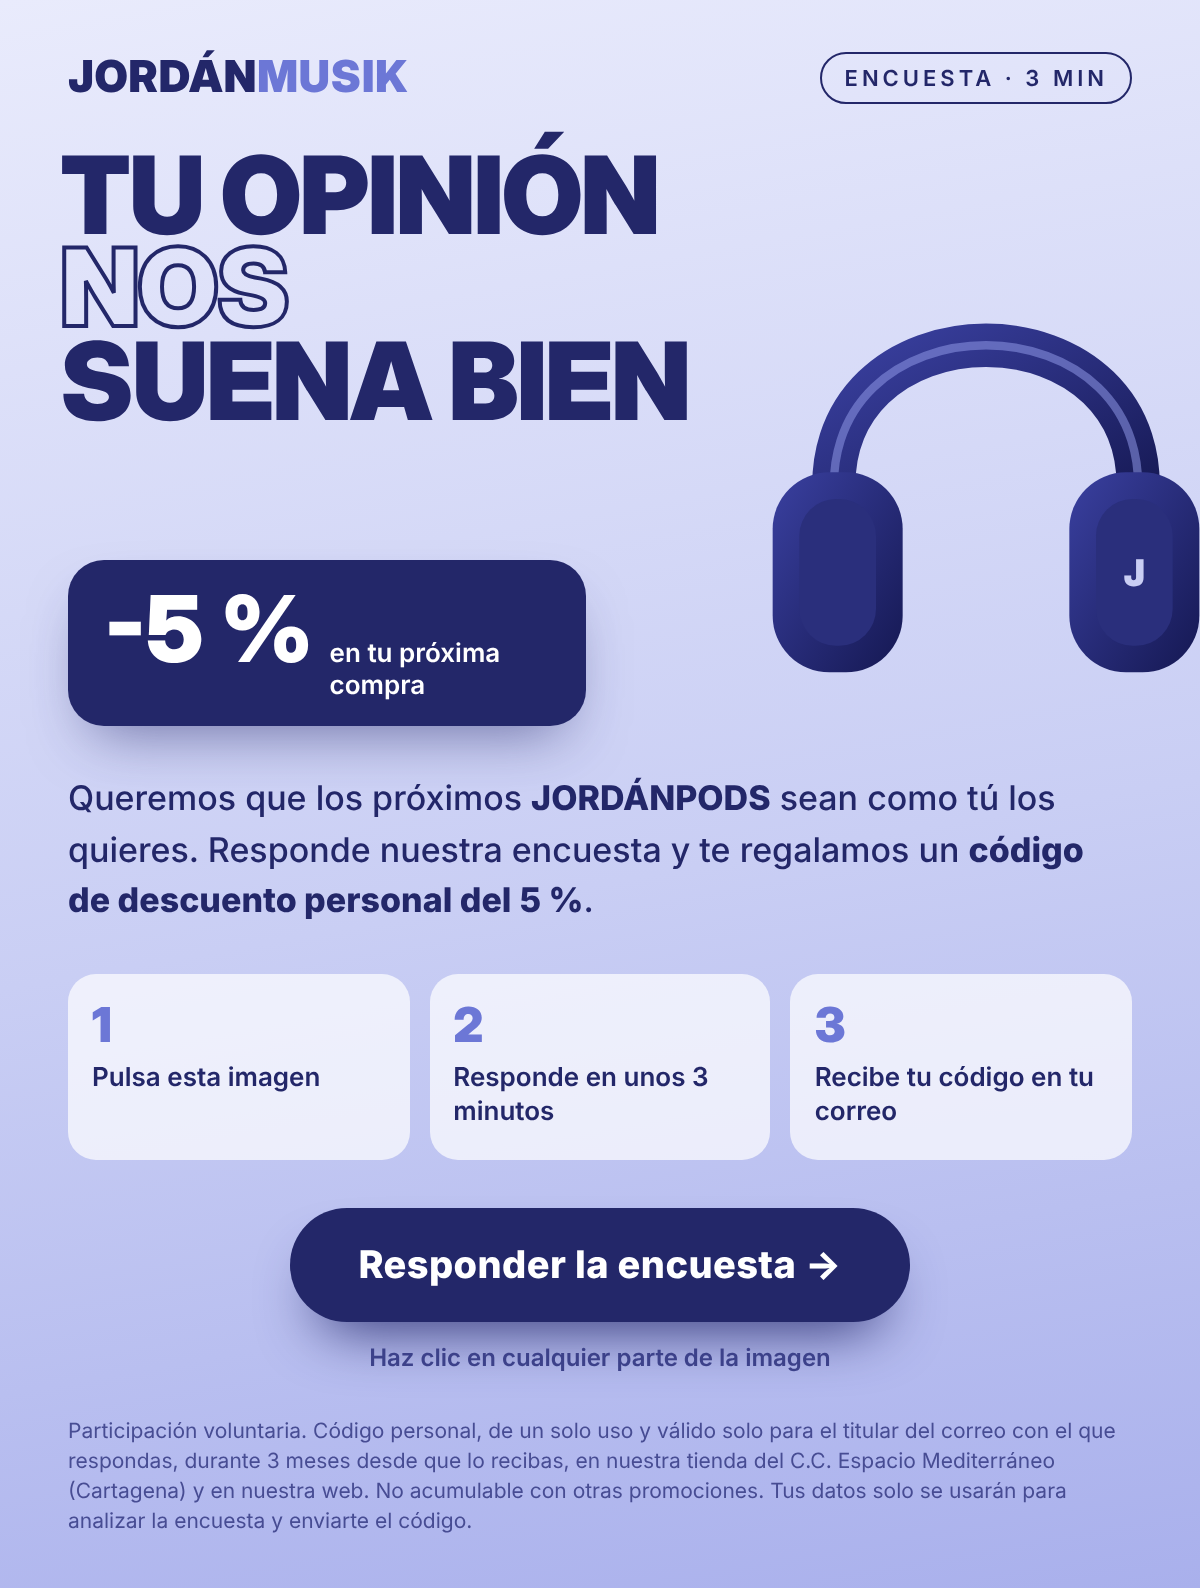
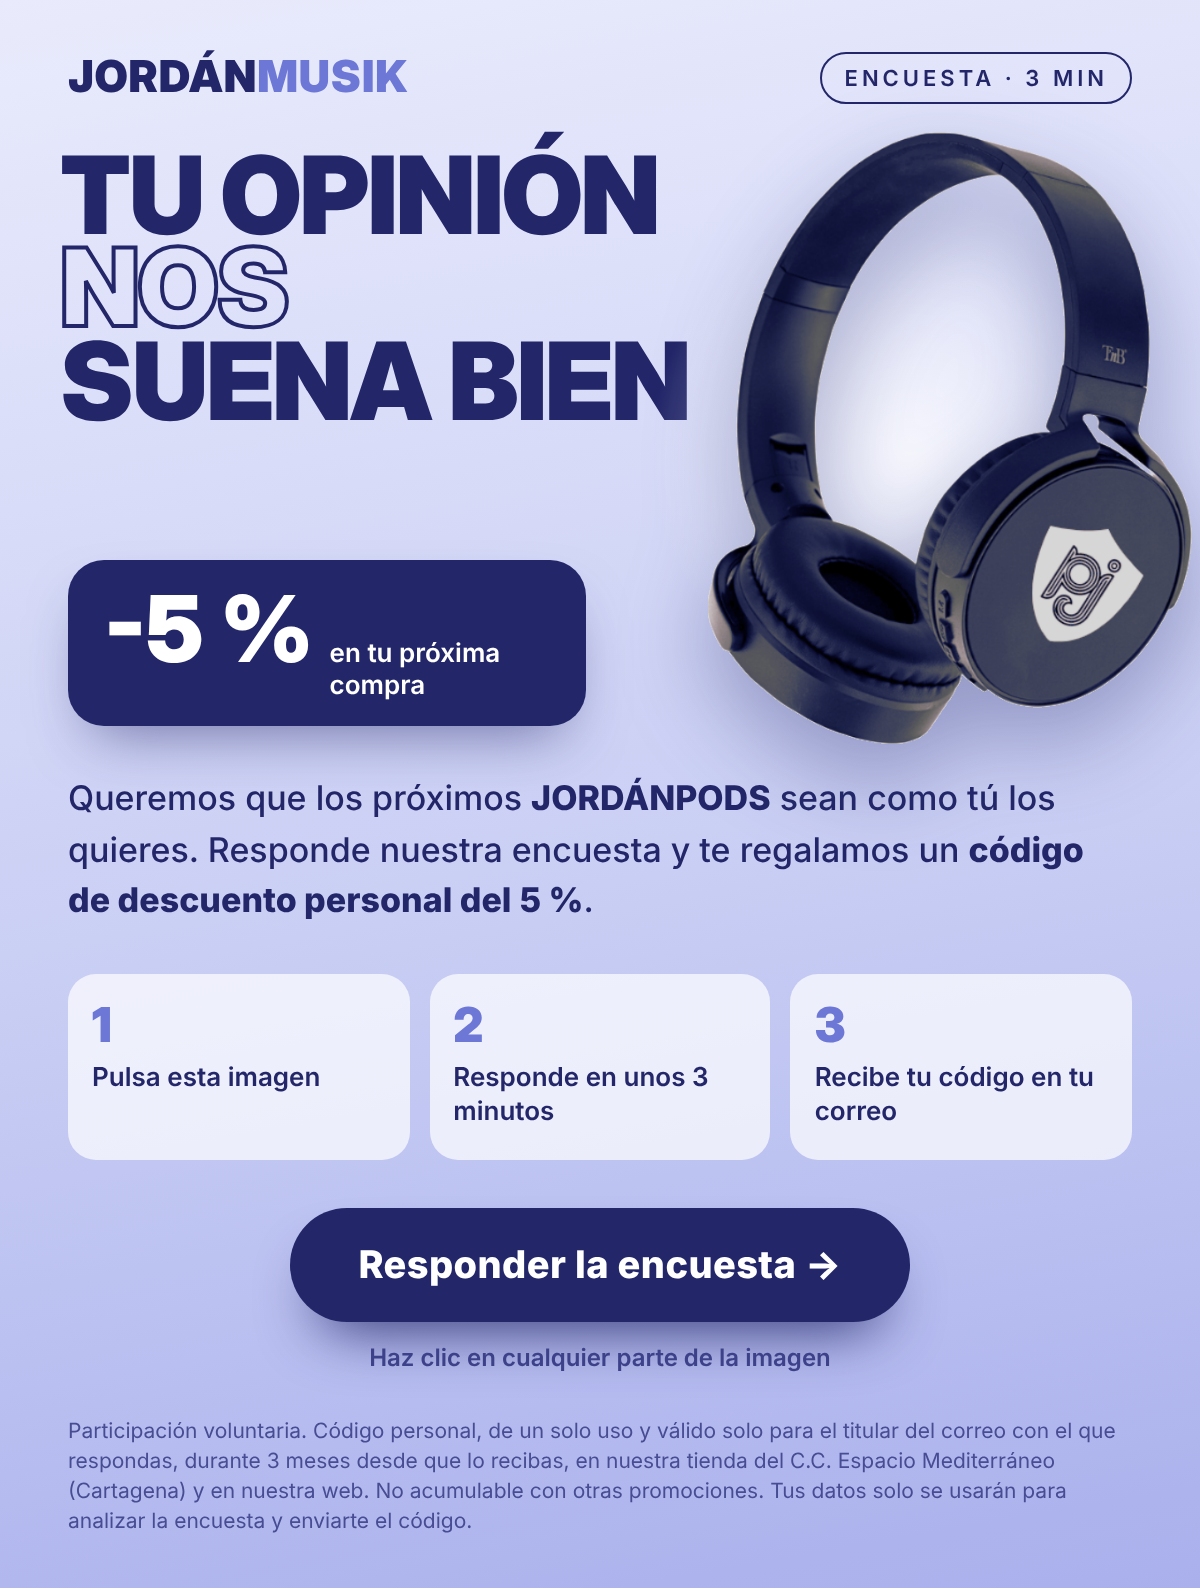
Mailing: sustituye la ilustración por la foto real de los JORDÁNPODS
Claude-Session: https://claude.ai/code/session_01QoRa6H288JEqWWG4NNqZ48

Changed region(s): [[0.5858, 0.0616, 1.0, 0.4931]]

diff --git a/mailing/diseno_mailing.html b/mailing/diseno_mailing.html
@@ -14,7 +14,8 @@ body{width:600px;font-family:"Inter",sans-serif;background:#fff}
 .badge{position:absolute;left:34px;top:228px;background:#232769;color:#fff;border-radius:18px;padding:12px 18px;display:flex;align-items:baseline;gap:8px;box-shadow:0 14px 30px -12px #23276999}
 .badge b{font-family:"Inter Display";font-weight:900;font-size:46px;line-height:1}
 .badge small{font-size:13px;font-weight:600;line-height:1.2;max-width:110px}
-svg.hp{position:absolute;right:-18px;top:34px;width:250px;height:267px}
+img.hp{position:absolute;right:4px;top:14px;height:306px;width:auto;filter:drop-shadow(0 18px 22px rgba(35,39,105,.35))}
+.glow{position:absolute;right:10px;top:40px;width:270px;height:270px;border-radius:50%;background:radial-gradient(circle,#ffffffcc 0%,#ffffff00 68%)}
 .body{padding:6px 34px 0}
 .lead{font-size:17px;line-height:1.5;font-weight:500;max-width:520px}
 .lead b{font-weight:800}
@@ -31,16 +32,7 @@ svg.hp{position:absolute;right:-18px;top:34px;width:250px;height:267px}
 <div class="hero">
  <div class="big"><span class="a">TU OPINIÓN</span><span class="b">NOS</span><span class="c">SUENA BIEN</span></div>
  <div class="badge"><b>-5 %</b><small>en tu próxima compra</small></div>
- <svg class="hp" viewBox="0 0 300 320" aria-hidden="true">
-  <defs><linearGradient id="g" x1="0" x2="1" y1="0" y2="1"><stop offset="0" stop-color="#3A40A0"/><stop offset="1" stop-color="#151852"/></linearGradient></defs>
-  <path d="M60 205 C40 70 260 70 240 205" fill="none" stroke="url(#g)" stroke-width="26" stroke-linecap="round"/>
-  <path d="M60 205 C40 70 260 70 240 205" fill="none" stroke="#8E97E6" stroke-width="5" stroke-linecap="round" opacity=".55"/>
-  <rect x="22" y="180" width="78" height="120" rx="34" fill="url(#g)"/>
-  <rect x="200" y="180" width="78" height="120" rx="34" fill="url(#g)"/>
-  <rect x="38" y="196" width="46" height="88" rx="22" fill="#2A2F7C"/>
-  <rect x="216" y="196" width="46" height="88" rx="22" fill="#2A2F7C"/>
-  <text x="239" y="248" text-anchor="middle" font-family="Inter Display" font-weight="900" font-size="22" fill="#C9CEF4">J</text>
- </svg>
+ <div class="glow"></div><img class="hp" src="jordanpods.png" alt="">
 </div>
 <div class="body">
  <p class="lead">Queremos que los próximos <b>JORDÁNPODS</b> sean como tú los quieres. Responde nuestra encuesta y te regalamos un <b>código de descuento personal del 5 %</b>.</p>
